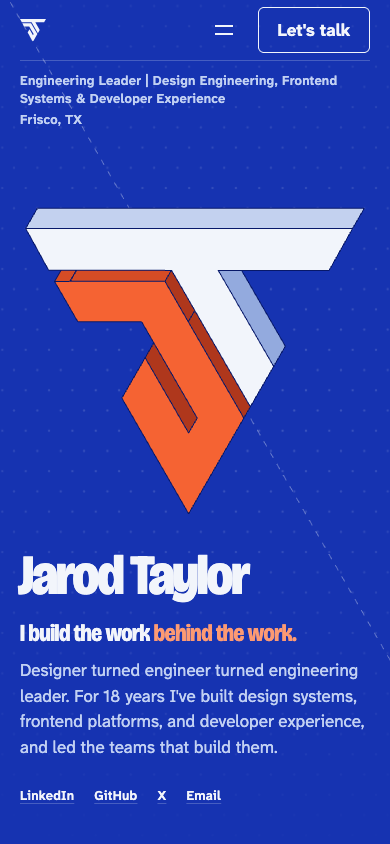
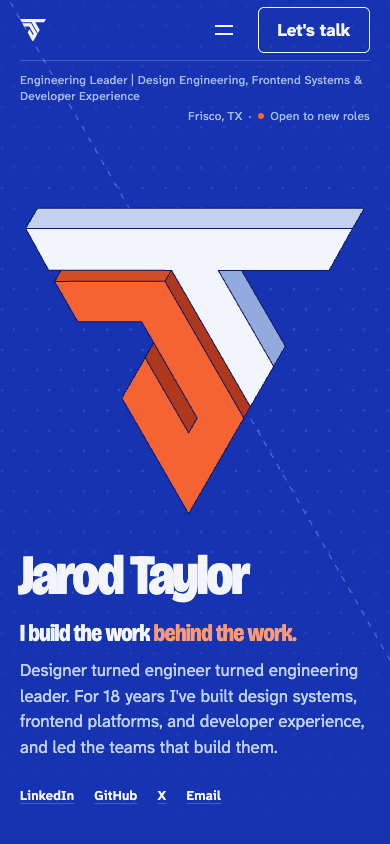
r6-blocks: one path per coplanar face so no seams show; quieter info strip with availability
Split side faces drew their shared edges across the assembled mark. The status dot's infinite pulse is excluded from intro completion so the build still hands back.

Changed region(s): [[0.0308, 0.0924, 0.9538, 0.154]]

diff --git a/prototypes/r6-blocks/styles.css b/prototypes/r6-blocks/styles.css
@@ -9,6 +9,7 @@
   --color-edge: #071869;
   --color-paper: #f2f5fb;
   --color-on-field-muted: #c2d1f3;
+  --color-on-field-quiet: #a9bcec;   /* 80% .075 266: the small print, still 5.2:1 */
   --color-faint: color-mix(in oklab, var(--color-paper) 22%, transparent);
   --color-paper-h: #c3d1ef;
   --color-paper-d: #93aade;
@@ -24,6 +25,8 @@
   --type-lead: clamp(1.5rem, 0.95rem + 1.5vw, 3.4rem);
   --type-body: clamp(1.0625rem, 0.78rem + 0.42vw, 1.45rem);
   --type-label: clamp(0.8125rem, 0.68rem + 0.22vw, 1.0625rem);
+  --type-info: clamp(0.75rem, 0.68rem + 0.12vw, 0.9375rem);
+  --weight-info: 400;
   --weight-display: 800;
   --weight-lead: 700;
   --weight-label: 600;
@@ -67,6 +70,8 @@
   --t-click: 1340ms;    --d-settle: 160ms;
   --t-text: 160ms;      --stagger-text: 80ms;   --d-text: 560ms;
   --d-rule: 900ms;
+  --d-pulse: 2400ms;
+  --status-dot: 0.5em;
   --travel-x: 123.36px; /* three lattice edges along the 60° rail */
   --travel-y: 213.67px;
   --pull-x: 10.28px;    /* hover: a quarter edge apart */
@@ -188,9 +193,32 @@ ul { padding: 0; list-style: none; }
   gap: var(--space-2xs) var(--space-m);
   margin-inline: var(--gutter);
   padding-block: var(--space-s);
-  color: var(--color-on-field-muted);
-  font: var(--weight-label) var(--type-label) / 1.35 var(--font-label);
+  color: var(--color-on-field-quiet);
+  font: var(--weight-info) var(--type-info) / 1.35 var(--font-label);
   letter-spacing: var(--tracking-label);
+}
+.info-place { margin-inline-start: auto; text-align: end; }
+
+/* Availability: a persimmon dot that breathes; under reduced motion it simply sits there. */
+.info-sep { margin-inline: 0.5em 0.25em; }
+.status { white-space: nowrap; }
+.status-dot {
+  position: relative;
+  display: inline-block;
+  inline-size: var(--status-dot); block-size: var(--status-dot);
+  margin-inline-end: 0.5em;
+  vertical-align: 0.08em;
+  border-radius: 50%;
+  background: var(--color-accent);
+}
+@media (prefers-reduced-motion: no-preference) {
+  .status-dot::after {
+    content: "";
+    position: absolute; inset: 0;
+    border-radius: inherit;
+    background: var(--color-accent);
+    animation: pulse var(--d-pulse) var(--ease-out) infinite;
+  }
 }
 .info::before {
   content: "";
@@ -375,6 +403,7 @@ ul { padding: 0; list-style: none; }
 @keyframes retract { from { stroke-dashoffset: 0; } to { stroke-dashoffset: -1; } }
 @keyframes appear { from { opacity: 0; } to { opacity: 1; } }
 @keyframes fade-out { from { opacity: 1; } to { opacity: 0; } }
+@keyframes pulse { from { transform: scale(1); opacity: 0.7; } 70%, to { transform: scale(2.6); opacity: 0; } }
 @keyframes rule { from { transform: scaleX(0); } to { transform: none; } }
 @keyframes rise { from { opacity: 0; transform: translateY(0.6em); } to { opacity: 1; transform: none; } }
 @keyframes rail-rest { from { stroke-opacity: var(--rail-live); } to { stroke-opacity: var(--rail-rest); } }

diff --git a/prototypes/r6-blocks/index.html b/prototypes/r6-blocks/index.html
@@ -50,7 +50,7 @@
 
   <p class="info">
     <span class="info-role">Engineering Leader | Design Engineering, Frontend Systems &amp; Developer Experience</span>
-    <span class="info-place">Frisco, TX</span>
+    <span class="info-place">Frisco, TX<span class="info-sep" aria-hidden="true">·</span> <span class="status"><span class="status-dot" aria-hidden="true"></span>Open to new roles</span></span>
   </p>
 
   <main id="main" class="hero">
@@ -67,7 +67,7 @@
     <!-- The build. Every edge sits on the mark's own 60° lattice: the faces are the two paths of
          jt-logo-icon.svg pushed back half a lattice edge (41.12) along the lattice's 300° axis, so the part is seen
          from above, the way it sits on a table. Drawing order is the hidden-line removal: side faces of both parts,
-         then both fronts. The viewBox is the assembled mark plus its depth; the parts start outside it.
+         then both fronts. Coplanar faces are one path each, so no seam draws an edge across a face. The viewBox is the assembled mark plus its depth; the parts start outside it.
          They slide together along the 60° rail they share (the J's right edge, the T's diagonal),
          three lattice edges of travel (246.72), and lock where the two tips meet. The rail runs the full page. -->
     <figure class="field">
@@ -103,10 +103,8 @@
           </g>
           <g class="part part-j">
             <path class="face face-d" d="M286.85 360.08L210.35 227.53L230.91 191.92L307.41 324.47Z" />
-            <path class="face face-h" d="M78.25 93.14L50.82 93.32L71.38 57.71L98.81 57.53Z" />
-            <path class="face face-d" d="M384.11 333.87L286.3 164.31L306.86 128.7L404.67 298.26Z" />
-            <path class="face face-h" d="M245.2 93.14L78.25 93.14L98.81 57.53L265.76 57.53Z" />
-            <path class="face face-d" d="M286.3 164.31L245.2 93.14L265.76 57.53L306.86 128.7Z" />
+            <path class="face face-h" d="M245.2 93.14L50.82 93.32L71.38 57.71L265.76 57.53Z" />
+            <path class="face face-d" d="M384.11 333.87L245.2 93.14L265.76 57.53L404.67 298.26Z" />
           </g>
           <g class="part part-t">
             <path class="face face-front" d="M230.41 73.72L256.93 73.84L395.59 313.98L436.64 242.87L339.07 73.85L534.09 74.1L575.65 0L0 0L40.31 73.45Z" />

diff --git a/prototypes/r6-blocks/hero.js b/prototypes/r6-blocks/hero.js
@@ -5,6 +5,8 @@
   if (!root.classList.contains('intro')) return;
   try { sessionStorage.setItem('jt-r6-blocks', '1'); } catch {}
 
+  // The status dot breathes forever; only the build's own, finite animations count.
+  const build = () => document.getAnimations().filter((a) => a.effect.getComputedTiming().endTime !== Infinity);
   const skipEvents = ['keydown', 'pointerdown', 'wheel', 'touchstart'];
   const done = () => {
     root.classList.remove('intro', 'building');
@@ -12,13 +14,13 @@
   };
   // Skipping jumps every animation to its last frame, which is the assembled page.
   function skip() {
-    document.getAnimations().forEach((a) => a.finish());
+    build().forEach((a) => a.finish());
     done();
   }
   skipEvents.forEach((e) => addEventListener(e, skip, { capture: true, passive: true }));
 
   // When the last stroke lands the classes go and nothing changes on screen.
   addEventListener('load', () => {
-    Promise.all(document.getAnimations().map((a) => a.finished)).then(done, done);
+    Promise.all(build().map((a) => a.finished)).then(done, done);
   });
 })();
